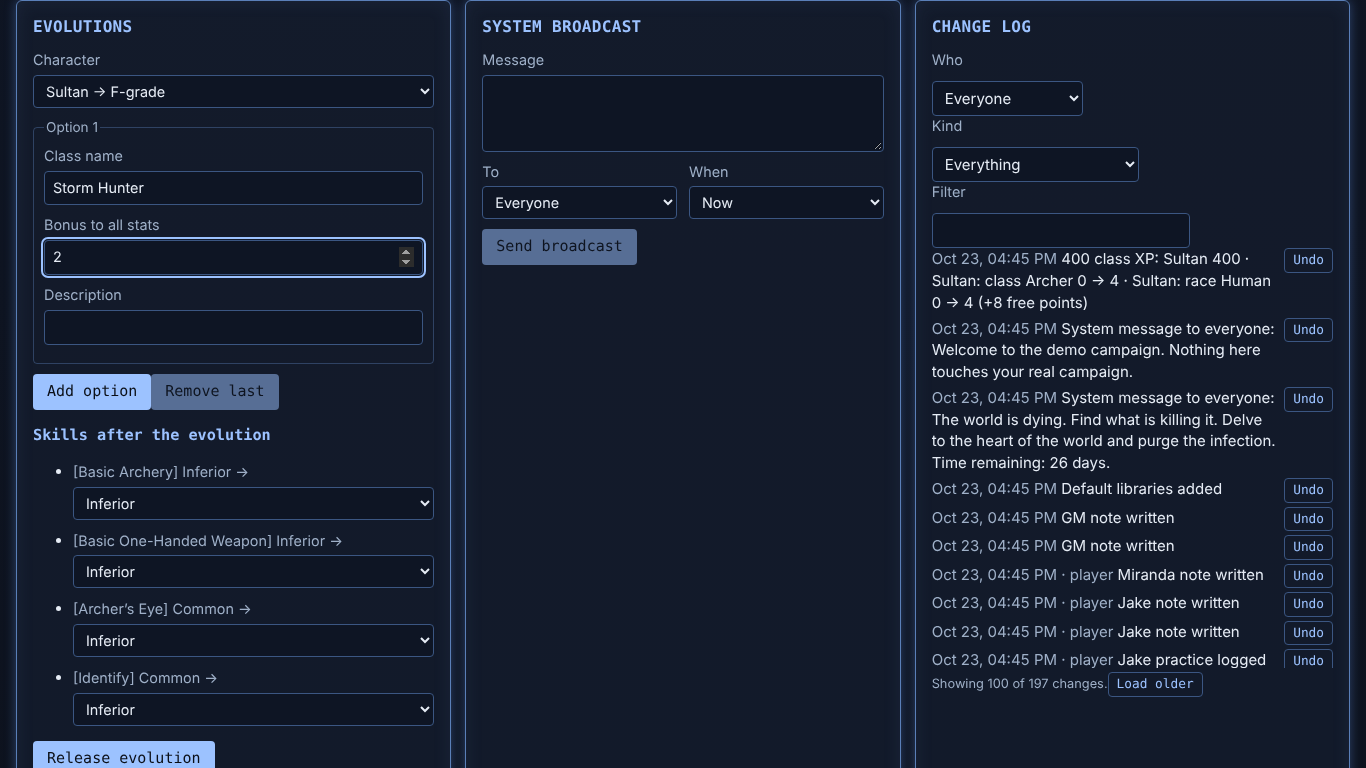
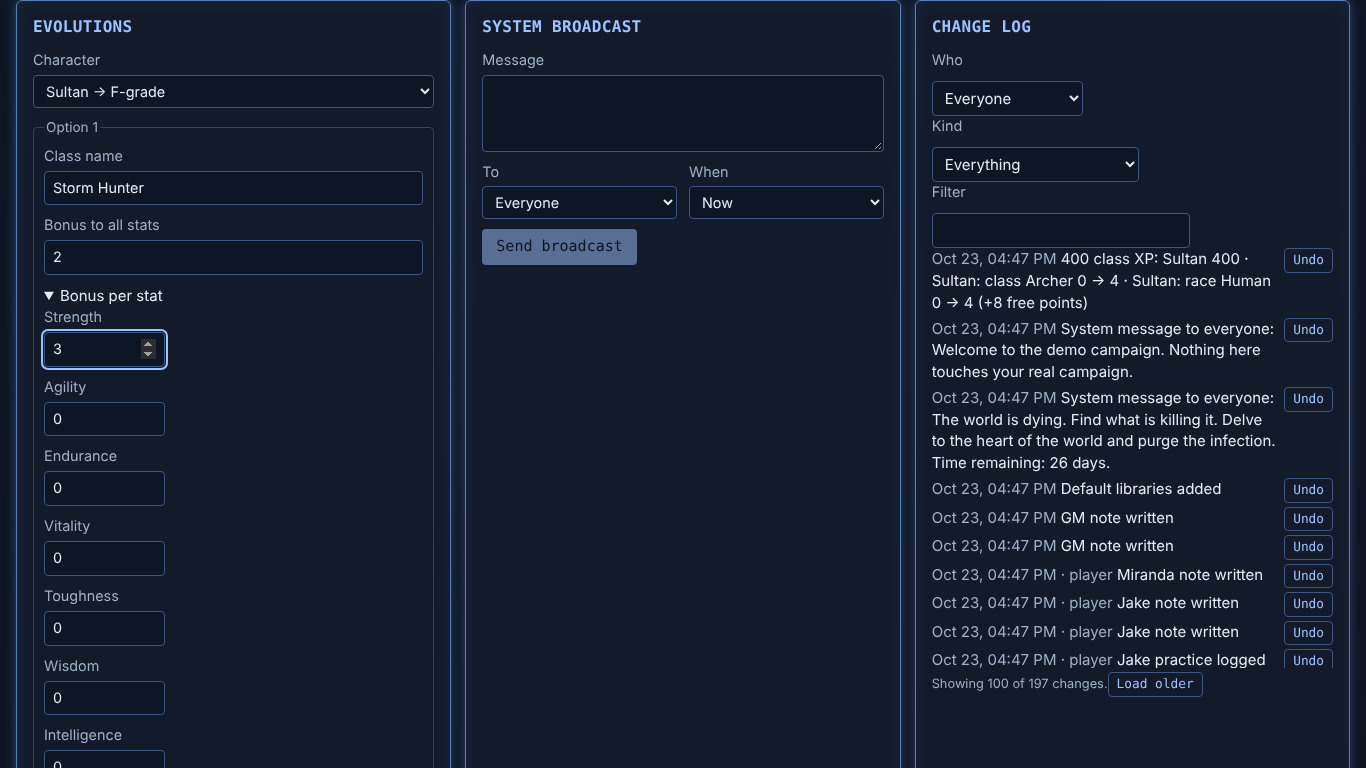
wip(gm): M5.2 per-stat one-time bonus
Claude-Session: https://claude.ai/code/session_01MSCL8373A9aH2ZXjMUjMWL

diff --git a/apps/web/src/gm/EvolutionBuilder.tsx b/apps/web/src/gm/EvolutionBuilder.tsx
@@ -7,9 +7,20 @@ import { evolutionPlan, releaseProblem, type EvolutionPlan } from './evolutionBu
 interface OptionDraft {
   className: string;
   description: string;
-  /** "+N to all" one-time bonus (DESIGN §2); per-stat bonuses come later. */
+  /** "+N to all" one-time bonus (DESIGN §2), added to each per-stat bonus. */
   allBonus: number;
+  /** Extra one-time bonus per stat id. */
+  bonus: Record<string, number>;
 }
+
+const blankOption = (className = ''): OptionDraft => ({
+  className,
+  description: '',
+  allBonus: 0,
+  bonus: {},
+});
+
+const wholeNumber = (v: string) => Math.max(0, Math.floor(Number(v) || 0));
 
 /**
  * GM evolution builder (ROADMAP M5.2, DESIGN §2/§6; work in progress): for a
@@ -70,9 +81,7 @@ function ReleaseForm({
   const { rules } = state;
   const character = state.characters[characterId];
   const rarityName = (id: string) => rules.skills.rarities.find((r) => r.id === id)?.name ?? id;
-  const [options, setOptions] = useState<OptionDraft[]>([
-    { className: character?.className ?? '', description: '', allBonus: 0 },
-  ]);
+  const [options, setOptions] = useState<OptionDraft[]>([blankOption(character?.className ?? '')]);
   const [professions, setProfessions] = useState('');
   const [rerate, setRerate] = useState<Record<string, string>>(() =>
     Object.fromEntries(plan.rerate.map((r) => [r.skill, r.byDefault])),
@@ -86,8 +95,11 @@ function ReleaseForm({
     description: o.description.trim(),
     transforms: [],
     classWeights: null,
-    statBonus:
-      o.allBonus > 0 ? Object.fromEntries(rules.stats.list.map((s) => [s.id, o.allBonus])) : {},
+    statBonus: Object.fromEntries(
+      rules.stats.list
+        .map((s) => [s.id, o.allBonus + (o.bonus[s.id] ?? 0)] as const)
+        .filter(([, n]) => n > 0),
+    ),
   }));
   const offered = plan.professionOffers
     ? professions
@@ -158,11 +170,26 @@ function ReleaseForm({
               min={0}
               step={1}
               value={o.allBonus}
-              onChange={(e) =>
-                setOption(i, { allBonus: Math.max(0, Math.floor(Number(e.target.value) || 0)) })
-              }
+              onChange={(e) => setOption(i, { allBonus: wholeNumber(e.target.value) })}
             />
           </label>
+          <details className="stat-bonus">
+            <summary>Bonus per stat</summary>
+            {rules.stats.list.map((st) => (
+              <label key={st.id}>
+                {st.name}{' '}
+                <input
+                  type="number"
+                  min={0}
+                  step={1}
+                  value={o.bonus[st.id] ?? 0}
+                  onChange={(e) =>
+                    setOption(i, { bonus: { ...o.bonus, [st.id]: wholeNumber(e.target.value) } })
+                  }
+                />
+              </label>
+            ))}
+          </details>
           <label>
             Description{' '}
             <input
@@ -177,7 +204,7 @@ function ReleaseForm({
         <button
           type="button"
           disabled={options.length >= rules.skills.menuSize.max}
-          onClick={() => setOptions([...options, { className: '', description: '', allBonus: 0 }])}
+          onClick={() => setOptions([...options, blankOption()])}
         >
           Add option
         </button>

diff --git a/apps/web/src/styles.css b/apps/web/src/styles.css
@@ -2188,3 +2188,22 @@ ol.change-log li.undone .change-text {
 .offer-builder > label select {
   max-width: 360px;
 }
+
+/* M5.2 evolution builder */
+.evolution-builder .stat-bonus {
+  grid-column: 1 / -1;
+  margin-bottom: 6px;
+}
+.evolution-builder .stat-bonus[open] {
+  display: grid;
+  grid-template-columns: repeat(3, minmax(0, 1fr));
+  column-gap: 8px;
+}
+.evolution-builder .stat-bonus summary {
+  grid-column: 1 / -1;
+  cursor: pointer;
+}
+.evolution-builder .rerate {
+  list-style: none;
+  padding: 0;
+}

diff --git a/e2e/M5.2.spec.ts b/e2e/M5.2.spec.ts
@@ -76,6 +76,8 @@ test('the GM builds and releases an evolution with re-rating', async ({ browser 
   const option = form.getByRole('group', { name: 'Option 1' });
   await option.getByLabel('Class name').fill('Storm Hunter');
   await option.getByLabel('Bonus to all stats').fill('2');
+  await option.getByText('Bonus per stat').click();
+  await option.getByLabel('Strength').fill('3');
   await expect(
     form.getByRole('list', { name: 'Re-rating' }).getByRole('listitem').first(),
   ).toBeVisible();
